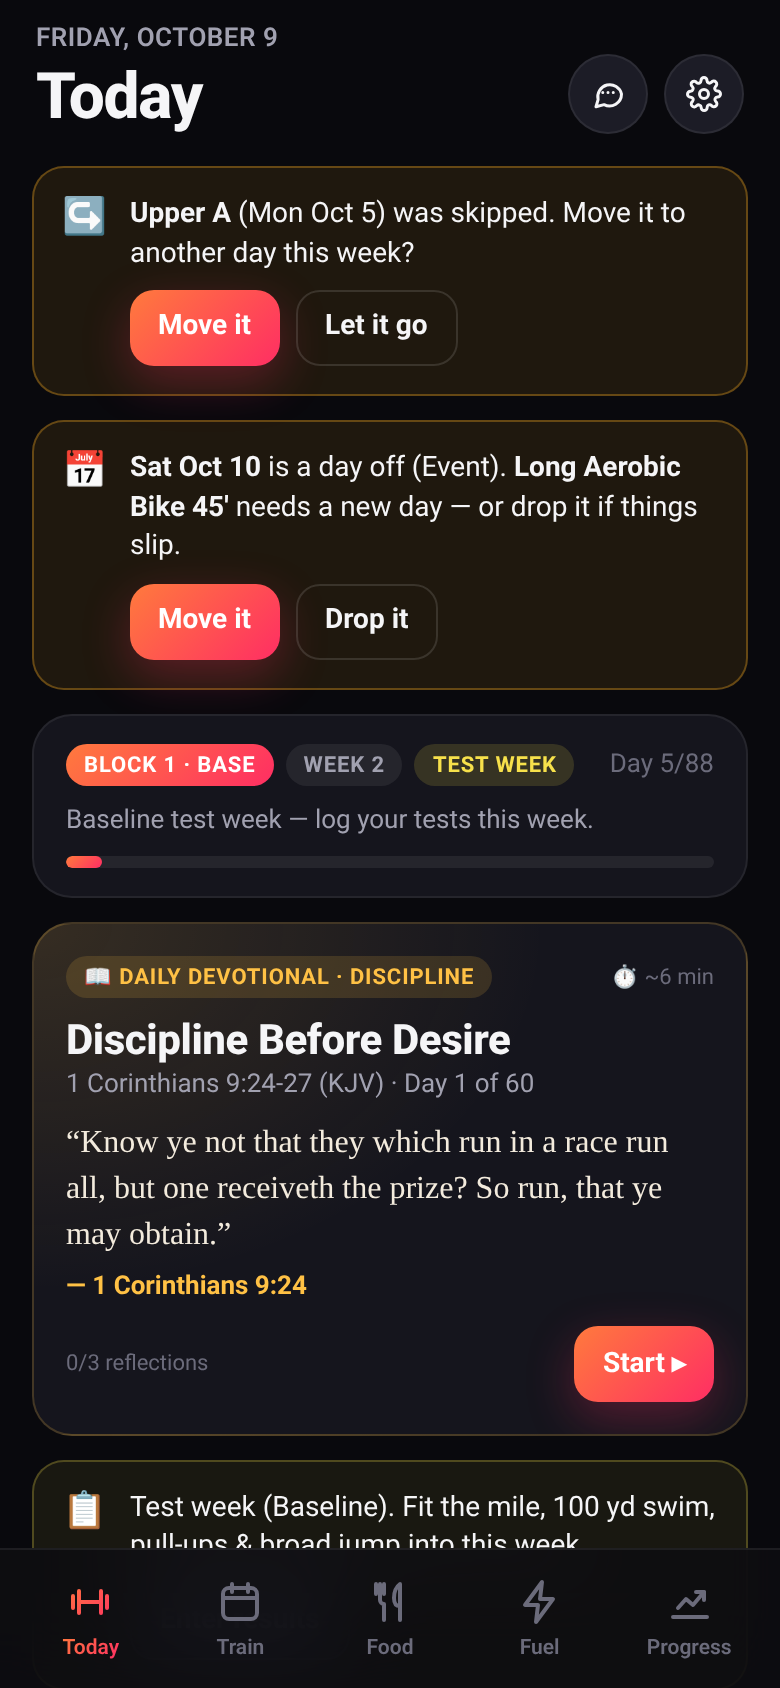
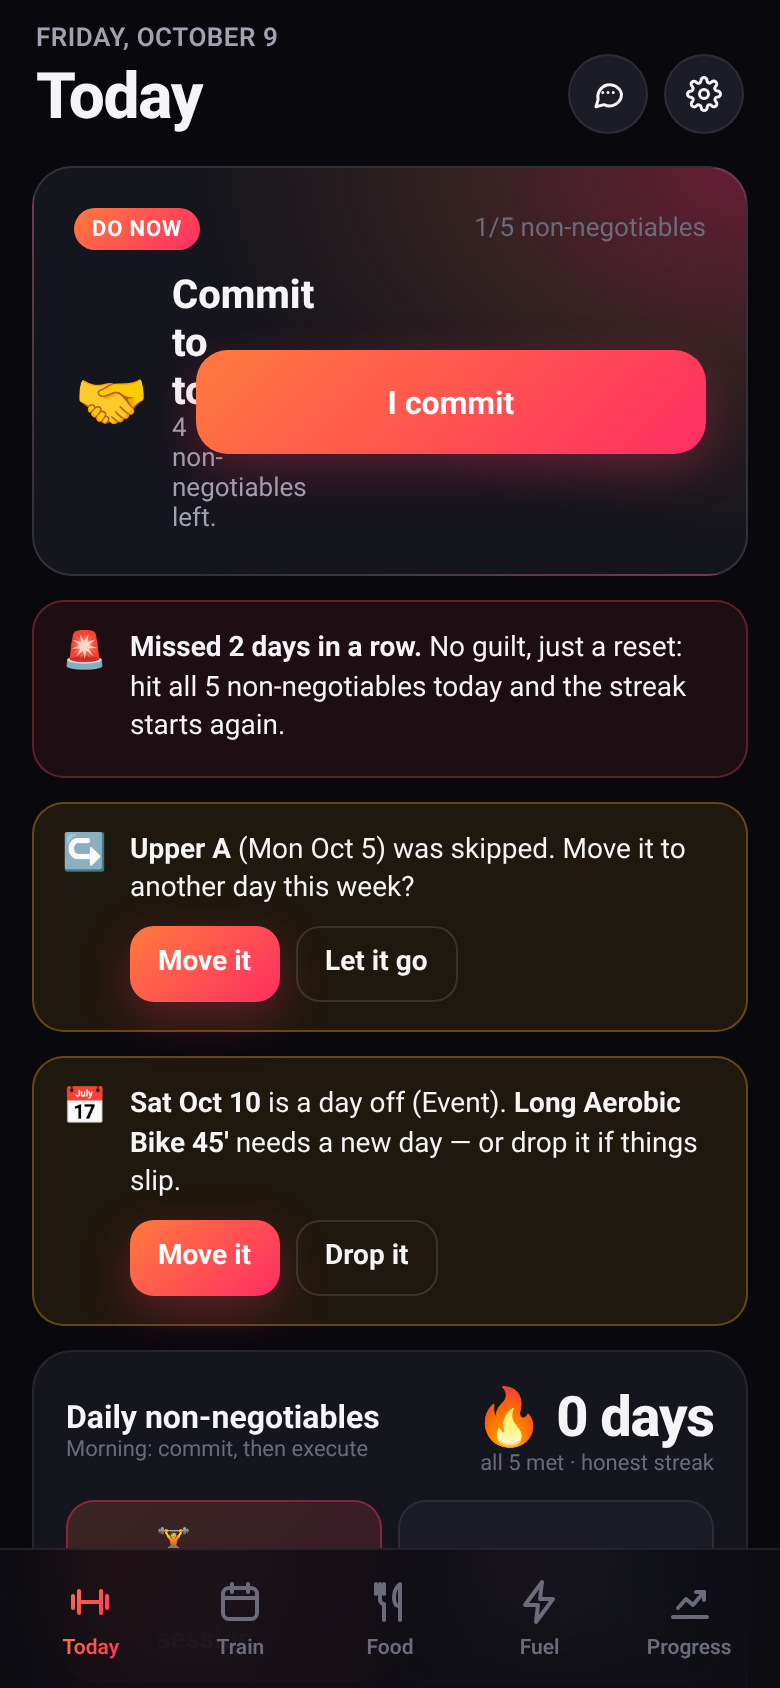
v2.3: Do-now card, 5 daily non-negotiables (commit + evening check-off), honest streak + never-miss-twice, Sunday weekly check-in

diff --git a/js/discipline.js b/js/discipline.js
@@ -1,0 +1,63 @@
+/* Arnold Fit v2.3 — discipline layer: daily non-negotiables, honest streak, never-miss-twice, Sunday check-in */
+function discState() { if (!S.disc) S.disc = { commit: {}, checkin: {} }; S.disc.commit = S.disc.commit || {}; S.disc.checkin = S.disc.checkin || {}; return S.disc; }
+function nnDay(k) {
+  const d = dayPlan(k), l = S.habitLog[k] || {}, ss = d && !d.off ? d.sessions : [];
+  const sOk = s => sessStatus(s) === 'done' || !!(S.schedule.moves || {})[s.key];
+  const trainOk = !ss.length || ss.every(sOk);
+  const items = [
+    { id: 'train', ic: '🏋', label: ss.length ? `Training · ${ss.filter(sOk).length}/${ss.length} session${ss.length > 1 ? 's' : ''}` : 'Training · rest day (recover)', ok: trainOk, auto: true },
+    { id: 'protein', ic: '🥩', label: `Protein ≥${S.settings.protein} g · ${proteinFor(k)} g`, ok: proteinFor(k) >= S.settings.protein || !!l.protein, auto: false },
+    { id: 'mobility', ic: '🧘', label: '10-min mobility', ok: !!l.mobility },
+    { id: 'devo', ic: '📖', label: 'Devotional', ok: !!(S.devo.done[k] || l.bible) },
+    { id: 'sleep', ic: '😴', label: '8 h sleep (last night)', ok: !!l.sleep },
+  ];
+  const n = items.filter(i => i.ok).length;
+  return { items, n, total: items.length, all: n === items.length };
+}
+function nnStreak() { const t = today(); let k = nnDay(t).all ? t : addDays(t, -1), n = 0; while (k >= PLAN_START && nnDay(k).all && n < 999) { n++; k = addDays(k, -1); } return n; }
+function nnMisses() { const t = today(), y = addDays(t, -1), y2 = addDays(t, -2); const m1 = y >= PLAN_START && !nnDay(y).all, m2 = m1 && y2 >= PLAN_START && !nnDay(y2).all; return { m1, m2, y }; }
+function nnBanner() {
+  const m = nnMisses(); if (!m.m1 || nnDay(today()).all) return '';
+  const miss = nnDay(m.y).items.filter(i => !i.ok).map(i => i.label.split(' · ')[0]).join(', ');
+  return m.m2 ? `<div class="tip bad" id="nmtBanner"><div class="ic">🚨</div><div><b>Missed 2 days in a row.</b> No guilt, just a reset: hit all 5 non-negotiables today and the streak starts again.</div></div>`
+    : `<div class="tip warnbox" id="nmtBanner"><div class="ic">⚠</div><div><b>Never miss twice.</b> Yesterday missed: ${esc(miss)}. Today is non-negotiable.</div></div>`;
+}
+function doNowCard(k) {
+  const day = dayPlan(k), nn = nnDay(k), hr = new Date().getHours(), D = discState();
+  let ic = '✅', t = 'All non-negotiables done', sub = 'Day won. Protect sleep tonight.', btn = '';
+  const todo = day && !day.off ? day.sessions.filter(s => sessStatus(s) === 'todo' && !(S.schedule.moves || {})[s.key]) : [];
+  if (S.active) { ic = '⏱'; t = `Finish ${esc(S.active.title)}`; sub = 'Workout in progress.'; btn = `<button class="btn tap" data-a="resume">Resume</button>`; }
+  else if (!D.commit[k] && hr < 18 && !nn.all) { ic = '🤝'; t = 'Commit to today'; sub = `${nn.total - nn.n} non-negotiable${nn.total - nn.n === 1 ? '' : 's'} left${todo.length ? ` · ${esc(todo[0].title)}` : ''}.`; btn = `<button class="btn tap" data-a="nnCommit">I commit</button>`; }
+  else if (todo.length) { ic = '🏋'; t = esc(todo[0].title); sub = `~${todo[0].min} min · details below`; btn = `<button class="btn tap" data-a="nnGoSess" data-key="${todo[0].key}">Go</button>`; }
+  else if (!nn.all) { const i = nn.items.find(x => !x.ok); ic = i.ic; t = esc(i.label.split(' · ')[0]); sub = hr >= 18 ? 'Evening check-off: close out the day.' : 'Next non-negotiable.'; btn = nnBtn(i, k, 'Do it'); }
+  return `<div class="card hero donow" id="doNow"><div class="row between"><span class="chip grad">Do now</span><span class="small dim">${nn.n}/${nn.total} non-negotiables</span></div><div class="row" style="gap:12px;margin-top:10px"><div style="font-size:30px">${ic}</div><div class="grow"><div class="ttl2" style="margin:0">${t}</div><div class="small muted">${sub}</div></div>${btn}</div></div>`;
+}
+function nnBtn(i, k, lbl) {
+  if (i.id === 'train') return `<button class="btn sm tap" data-a="goTab" data-tab="train">${lbl || 'Train'}</button>`;
+  if (i.id === 'devo') return `<button class="btn sm tap" data-a="openDevo" data-k="${k}">${lbl || 'Open'}</button>`;
+  return `<button class="btn sm tap" data-a="nnTog" data-id="${i.id}" data-date="${k}">${lbl || 'Done'}</button>`;
+}
+function nnCard(k) {
+  const nn = nnDay(k), st = nnStreak(), D = discState(), hr = new Date().getHours();
+  const head = hr >= 18 ? 'Evening check-off' : D.commit[k] ? 'Committed ✓ — now execute' : 'Morning: commit, then execute';
+  return `<div class="card" id="nnCard"><div class="row between"><div><div style="font-weight:750">Daily non-negotiables</div><div class="xs dim">${head}</div></div><div style="text-align:right"><div class="streak" id="nnStreak">🔥 ${st} day${st === 1 ? '' : 's'}</div><div class="xs dim">all 5 met · honest streak</div></div></div><div class="habits" style="margin-top:12px">${nn.items.map(i => `<button class="habit nn ${i.ok ? 'on' : ''}" data-a="${i.id === 'train' ? 'goTab' : i.id === 'devo' ? 'openDevo' : 'nnTog'}" data-tab="train" data-k="${k}" data-id="${i.id}" data-date="${k}"><span class="ck">${CHECK}</span><span class="grow">${i.ic} ${esc(i.label)}</span>${i.auto ? '<span class="xs dim">auto</span>' : ''}</button>`).join('')}</div></div>`;
+}
+/* ---------- Sunday weekly check-in ---------- */
+function checkinWeek(k) { return weekStart(k); } // keyed by the Monday of the week being reviewed
+function weekAdh(ws, upto) { let full = 0, items = 0, days = 0; for (let i = 0; i < 7; i++) { const dk = addDays(ws, i); if (dk > upto || dk < PLAN_START) continue; const nn = nnDay(dk); days++; items += nn.n / nn.total; if (nn.all) full++; } return { full, days, score: days ? Math.round(items / days * 100) : 0 }; }
+function checkinCard(k) {
+  const isSun = dow(k) === 6, isMon = dow(k) === 0, D = discState();
+  const ws = isSun ? weekStart(k) : isMon ? weekStart(addDays(k, -1)) : null;
+  if (!ws || ws < weekStart(PLAN_START)) return '';
+  const done = D.checkin[ws], endK = addDays(ws, 6) < k ? addDays(ws, 6) : k, av = avgWeight(endK), prev = avgWeight(addDays(endK, -7));
+  const knees = [...Array(7)].map((_, i) => (S.body[addDays(ws, i)] || {}).knee).filter(v => v != null), kAvg = knees.length ? (knees.reduce((a, b) => a + b, 0) / knees.length) : null;
+  const a = weekAdh(ws, endK);
+  if (done && !isSun) return '';
+  return `<div class="card goldbox" id="checkin"><div class="row between"><span class="chip gold">🗓 Weekly check-in</span>${done ? `<span class="sbadge">${CHECK}</span>` : `<span class="xs dim">2 min</span>`}</div><div class="kpis" style="display:grid;grid-template-columns:1fr 1fr;gap:10px;margin-top:12px"><div><div class="xs dim">Weight 7-day avg</div><b id="ciW">${av ? U.wOut(av.v.toFixed(1)) + ' ' + wu() : '—'}</b>${av && prev ? `<div class="xs dim">${(av.v - prev.v >= 0 ? '+' : '') + (av.v - prev.v).toFixed(1)} vs last wk</div>` : ''}</div><div><div class="xs dim">Adherence</div><b id="ciA">${a.score}%</b><div class="xs dim">${a.full}/${a.days} perfect days</div></div><div><div class="xs dim">Knee avg</div><b id="ciK">${kAvg == null ? '—' : kAvg.toFixed(1) + '/10'}</b></div><div><div class="xs dim">Waist (in)</div><input class="inp" id="ci-waist" type="number" inputmode="decimal" step="0.25" value="${done && done.waist != null ? done.waist : ''}" placeholder="e.g. 34.5"></div></div><div class="small muted" style="margin-top:10px">${a.score >= 85 ? 'Strong week. Keep the plan exactly as is.' : a.score >= 65 ? 'Decent. Pick the one non-negotiable you missed most and pre-plan it.' : 'Rough week. Shrink the target: just hit all 5 tomorrow.'}</div><button class="btn sm tap" style="margin-top:10px" data-a="saveCheckin" data-ws="${ws}">${done ? 'Update check-in' : 'Save check-in'}</button></div>`;
+}
+ACT.nnCommit = () => { discState().commit[today()] = Date.now(); save(); haptic(15); toast('Committed. Now execute. 🤝'); rerenderKeep(); };
+ACT.nnTog = (el, d) => { const k = d.date || today(), l = S.habitLog[k] = S.habitLog[k] || {}; const id = d.id === 'devo' ? 'bible' : d.id; if (l[id]) delete l[id]; else l[id] = true; save(); haptic(l[id] ? 12 : 6); rerenderKeep(); if (nnDay(k).all) { toast('All 5 non-negotiables done 🔥'); confetti(); } };
+ACT.nnGoSess = (el, d) => { const c = document.querySelector(`[data-sess="${d.key}"]`); if (c) c.scrollIntoView({ behavior: 'smooth', block: 'start' }); };
+ACT.saveCheckin = (el, d) => { const ws = d.ws, k = today(), w = $('#ci-waist').value, endK = addDays(ws, 6) < k ? addDays(ws, 6) : k, av = avgWeight(endK), a = weekAdh(ws, endK); const knees = [...Array(7)].map((_, i) => (S.body[addDays(ws, i)] || {}).knee).filter(v => v != null);
+  discState().checkin[ws] = { ts: Date.now(), waist: w === '' ? null : +w, avg: av ? +av.v.toFixed(2) : null, knee: knees.length ? +(knees.reduce((x, y) => x + y, 0) / knees.length).toFixed(1) : null, adh: a.score, full: a.full };
+  if (w !== '') (S.body[k] = S.body[k] || {}).waist = +w; save(); haptic(15); toast('Weekly check-in saved ✓'); rerenderKeep(); };

diff --git a/js/view-today.js b/js/view-today.js
@@ -75,13 +75,15 @@ function heatmap(sel) {
 VIEWS.today = function () {
   const k = today(), day = dayPlan(k), b = S.body[k] || {}, ft = foodTotals(k), prot = proteinFor(k), T = S.settings;
   let h = hdr(fmtLong(k), 'Today');
+  if (k >= PLAN_START) h += doNowCard(k) + nnBanner();
   if (S.active && (!day || !day.sessions.some(s => s.key === S.active.sessionKey))) h += `<div class="tip info"><div class="ic">⏱</div><div class="grow">Workout in progress: <b>${esc(S.active.title)}</b><div style="margin-top:8px"><button class="btn sm tap" data-a="resume">Resume</button></div></div></div>`;
   h += scheduleBanners(k);
+  if (k >= PLAN_START) h += nnCard(k) + checkinCard(k);
+  let blockCard = '';
   if (day) {
     const m = day.meta, tot = diffDays(PLAN_START, PLAN_END) + 1, dn = diffDays(PLAN_START, k) + 1;
-    h += `<div class="card" style="padding:14px 16px"><div class="row between"><div class="row wrap" style="gap:6px"><span class="chip grad">Block ${day.block.n} · ${day.block.name}</span><span class="chip">Week ${day.wk}</span>${m.deload ? '<span class="chip deload">Deload</span>' : ''}${m.test ? '<span class="chip test">Test week</span>' : ''}${m.finals ? '<span class="chip finals">Finals</span>' : ''}</div><div class="small dim">Day ${dn}/${tot}</div></div>${m.note ? `<div class="small muted" style="margin-top:10px">${esc(m.note)}</div>` : ''}<div class="pbar"><i style="width:${dn / tot * 100}%"></i></div></div>`;
+    blockCard = `<div class="card" style="padding:14px 16px"><div class="row between"><div class="row wrap" style="gap:6px"><span class="chip grad">Block ${day.block.n} · ${day.block.name}</span><span class="chip">Week ${day.wk}</span>${m.deload ? '<span class="chip deload">Deload</span>' : ''}${m.test ? '<span class="chip test">Test week</span>' : ''}${m.finals ? '<span class="chip finals">Finals</span>' : ''}</div><div class="small dim">Day ${dn}/${tot}</div></div>${m.note ? `<div class="small muted" style="margin-top:10px">${esc(m.note)}</div>` : ''}<div class="pbar"><i style="width:${dn / tot * 100}%"></i></div></div>`;
   }
-  h += devoCard(k);
   if (!day) h += `<div class="card hero"><span class="chip grad">${k < PLAN_START ? 'Starts Oct 5' : 'Plan complete'}</span><div class="ttl">${k < PLAN_START ? 'Plan starts Monday, Oct 5' : '🏁 Program complete!'}</div></div>`;
   else {
     h += contextTips(k);
@@ -91,7 +93,8 @@ VIEWS.today = function () {
     if (!ss.length && !day.off) h += `<div class="card hero"><span class="chip">Rest day</span><div class="ttl">Recover 💤</div><div class="small muted">Sleep 8h+, hit protein, do the 10-min mobility routine. Recovery is when you adapt.</div></div>`;
     ss.forEach((s, i) => h += sessionCard(day, s, i === 0));
   }
-  h += `<h2 class="sec">Daily habits</h2>` + habitsCard();
+  h += devoCard(k) + blockCard;
+  h += `<h2 class="sec">All habits</h2>` + habitsCard();
   h += `<h2 class="sec">Fuel today <button class="btn sm sec tap" data-a="goTab" data-tab="food">Open Food</button></h2><div class="card"><div class="row between small"><span>Calories</span><b>${fmtNum(ft.kcal)} / ${fmtNum(T.kcal)}</b></div><div class="pbar"><i style="width:${Math.min(100, ft.kcal / T.kcal * 100)}%"></i></div><div class="row between small" style="margin-top:12px"><span>Protein</span><b>${prot} / ${T.protein} g</b></div><div class="pbar"><i class="pgreen" style="width:${Math.min(100, prot / T.protein * 100)}%"></i></div><div class="qadd" style="margin-top:12px"><button class="tap" data-a="quickProt" data-v="25">+25 g protein</button><button class="tap" data-a="quickProt" data-v="40">+40 g</button><button class="tap" data-a="quickProt" data-v="50">+50 g</button></div></div>`;
   h += `<h2 class="sec">Quick log</h2><div class="card"><div class="field"><label>Weight (${wu()})</label><div class="row"><input class="inp grow" id="q-weight" type="number" inputmode="decimal" step="0.1" placeholder="${esc(U.wOut(lastWeight()))}" value="${esc(U.wOut(b.weight))}"><button class="btn sm tap" style="height:48px" data-a="saveWeight">Save</button></div></div>${hasKnee(S.profile) || b.knee != null ? `<div class="field" style="margin-top:14px"><label>Knee pain (0–10) ${b.knee != null ? `· <span style="color:${painColor(b.knee)}">${b.knee}/10</span>` : ''}</label><div class="pain" id="q-knee">${[...Array(11)].map((_, i) => `<button class="tap ${b.knee === i ? 'on' : ''}" style="${b.knee === i ? `background:${painColor(i)}` : ''}" data-a="knee" data-v="${i}">${i}</button>`).join('')}</div></div>` : ''}</div>`;
   h += `<h2 class="sec">Daily 10-min mobility</h2><div class="card"><ul class="clean">${MOBILITY.map(x => `<li>${esc(x)}</li>`).join('')}</ul></div>`;

diff --git a/js/view-settings.js b/js/view-settings.js
@@ -15,7 +15,7 @@ VIEWS.settings = function () {
   h += `<h2 class="sec">Saved swaps <small>${sw.length}</small></h2><div class="card" id="savedSwaps">${sw.length ? sw.map(id => { const sl = slotById(id); return sl ? `<div class="exrow"><div class="grow"><div class="nm">${esc(EX[S.swapPrefs[id]].n)}</div><div class="xs dim">replaces ${esc(EX[profileExercise(sl, P)].n)}</div></div><button class="btn sm sec tap" style="width:auto" data-a="rmSwap" data-id="${id}">Reset</button></div>` : ''; }).join('') : '<div class="small muted">No default swaps. Swap in a workout (⇄) or tell the coach “swap X for Y” and choose “Make it my default”.</div>'}</div>`;
   h += `<h2 class="sec">Habits</h2><div class="card">${st.habits.map((x, i) => `<div class="hab-edit"><input class="inp" style="width:58px;text-align:center" data-hab="ic" data-i="${i}" value="${esc(x.ic || '')}" maxlength="4" aria-label="Icon"><input class="inp grow" data-hab="label" data-i="${i}" value="${esc(x.label)}" aria-label="Habit name"><button class="icon-btn tap" style="height:44px;width:44px" data-a="rmHabit" data-i="${i}" aria-label="Delete habit">✕</button></div>`).join('')}<button class="btn sec sm tap" style="width:100%;margin-top:4px" data-a="addHabit">+ Add habit</button></div>`;
   h += `<h2 class="sec">Backup</h2><div class="card"><div class="small muted" style="margin-bottom:12px">All data lives on this device (localStorage). Export a JSON backup regularly — e.g. save it to Files/iCloud.</div><div class="grid2"><button class="btn sec tap" data-a="export">⬇ Export</button><button class="btn sec tap" data-a="import">⬆ Import</button></div><input type="file" id="importFile" accept="application/json,.json" class="hidden"><button class="btn danger tap" style="margin-top:10px" data-a="reset">Reset all data</button></div>`;
-  h += `<h2 class="sec">Install</h2><div class="card small muted" style="line-height:1.5">iPhone: open in <b>Safari</b> → Share → <b>Add to Home Screen</b>. Android: Chrome ⋮ → <b>Install app</b>. Works offline after the first load (videos & “read more” need a connection).</div><div class="xs dim" style="text-align:center;margin:18px 0">Arnold Fit v2.2 · ${S.workouts.length} sessions logged</div>`;
+  h += `<h2 class="sec">Install</h2><div class="card small muted" style="line-height:1.5">iPhone: open in <b>Safari</b> → Share → <b>Add to Home Screen</b>. Android: Chrome ⋮ → <b>Install app</b>. Works offline after the first load (videos & “read more” need a connection).</div><div class="xs dim" style="text-align:center;margin:18px 0">Arnold Fit v2.3 · ${S.workouts.length} sessions logged</div>`;
   return h;
 };
 function exportData() {

diff --git a/sw.js b/sw.js
@@ -1,7 +1,7 @@
 /* Arnold Fit service worker — offline-first app shell */
-const CACHE = 'arnoldfit-v2.2.0';
+const CACHE = 'arnoldfit-v2.3.0';
 const ASSETS = ['./', './index.html', './manifest.json', './css/app.css', 
-  './js/data.js', './js/verses.js', './js/devotionals.js', './js/devo.js', './js/foods.js', './js/store.js', './js/charts.js', './js/ui-core.js', './js/view-today.js', './js/view-train.js', './js/workout.js', './js/coach.js', './js/view-food.js', './js/view-fuel.js', './js/view-progress.js', './js/view-settings.js', './js/onboarding.js', './js/boot.js',
+  './js/data.js', './js/verses.js', './js/devotionals.js', './js/devo.js', './js/foods.js', './js/store.js', './js/charts.js', './js/ui-core.js', './js/discipline.js', './js/view-today.js', './js/view-train.js', './js/workout.js', './js/coach.js', './js/view-food.js', './js/view-fuel.js', './js/view-progress.js', './js/view-settings.js', './js/onboarding.js', './js/boot.js',
  
   './icons/icon-192.png', './icons/icon-512.png', './icons/icon-maskable-512.png', './icons/apple-touch-icon.png'];
 self.addEventListener('install', e => { e.waitUntil(caches.open(CACHE).then(c => c.addAll(ASSETS)).then(() => self.skipWaiting())); });

diff --git a/index.html b/index.html
@@ -40,6 +40,7 @@
 <script src="js/charts.js"></script>
 <script src="js/ui-core.js"></script>
 <script src="js/devo.js"></script>
+<script src="js/discipline.js"></script>
 <script src="js/view-today.js"></script>
 <script src="js/view-train.js"></script>
 <script src="js/workout.js"></script>
